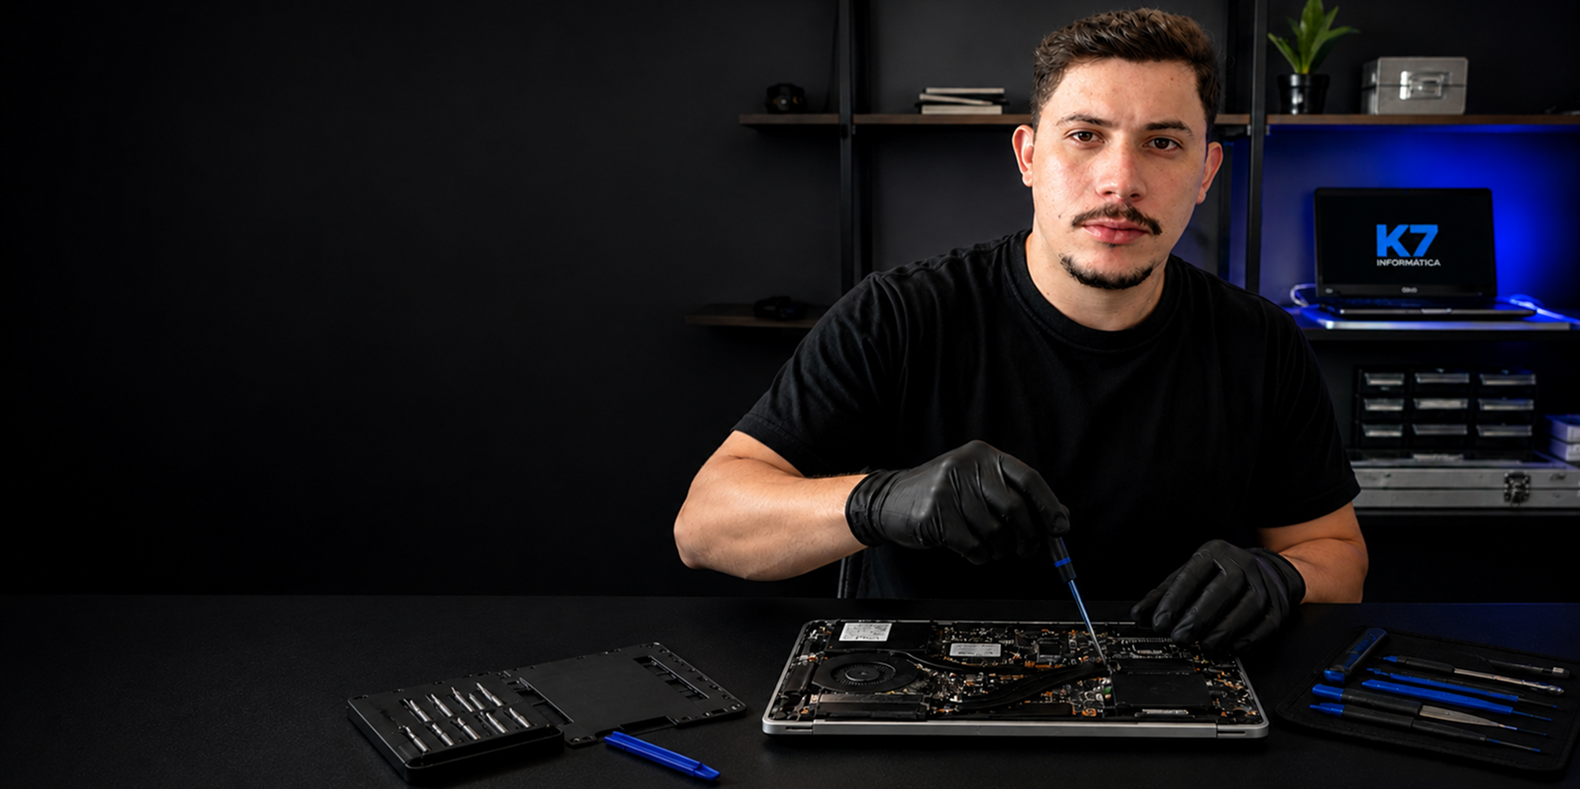
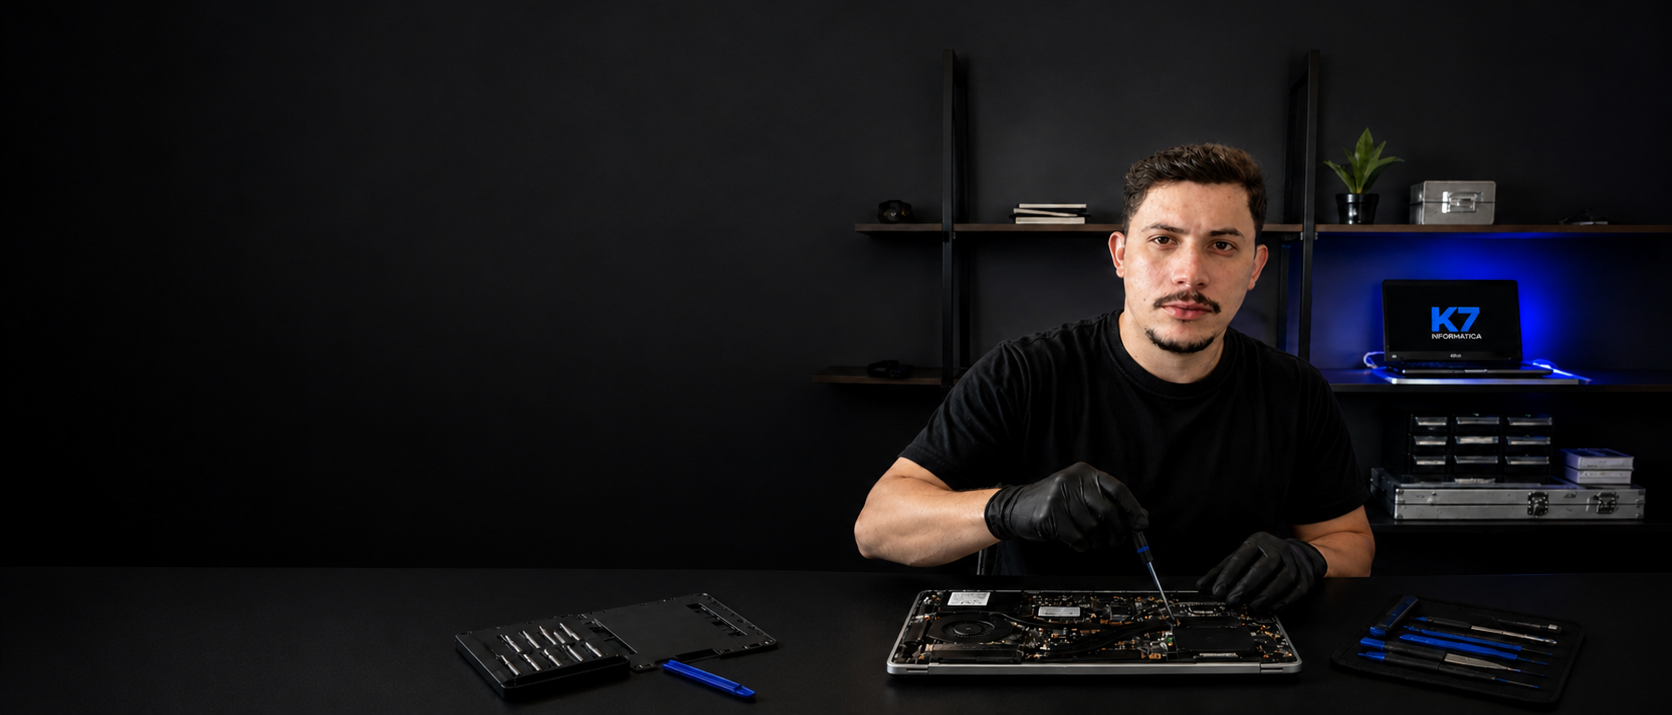
desenvolvimento da hero section, navegação do menu e comportamento de scroll do header

Changed region(s): [[0.4032, 0.0, 1.0, 0.9538], [0.2481, 0.8615, 0.4652, 1.0], [0.4032, 0.8308, 0.4342, 0.8615]]

diff --git a/front-end/assets/css/main.css b/front-end/assets/css/main.css
@@ -23,6 +23,9 @@ html {
 }
 
 body {
+  min-height: 100vh;
+  display: flex;
+  flex-direction: column;
   margin: 0;
   padding: 0;
   background-color: var(--background-color);
@@ -30,6 +33,10 @@ body {
   color: var(--default-color);
   box-sizing: border-box;
   position: relative;
+}
+
+main {
+  flex: 1;
 }
 
 h1, h2, h3, h4, h5, h6 {
@@ -138,11 +145,18 @@ header .content_nav nav {
   align-items: center;
   justify-content: space-between;
   margin: 15px 0;
-  background-color: transparent;
+  background-color: var(--background-color);
   border: 1px solid var(--surface-color);
   border-radius: 50px;
   padding: 5px 10px;
   transition: all 0.5s;
+  position: fixed;
+  left: 50%;
+  transform: translateX(-50%);
+  width: 100%;
+  top: 30px;
+  z-index: 999;
+  max-width: 1340px;
 }
 header .content_nav nav:hover {
   box-shadow: 0 0 5px var(--surface-color);
@@ -161,6 +175,9 @@ header .content_nav nav ul li a:hover {
 header .content_nav nav .menu_nav_img a {
   display: flex;
   align-items: center;
+}
+header .content_nav nav .menu_nav_img a img {
+  width: 60px;
 }
 header .content_nav nav .menu_nav_btn_contato a {
   padding: 10px 25px;
@@ -253,6 +270,7 @@ footer {
   background-color: var(--background-color);
   width: 100%;
   height: auto;
+  padding: 30px 0 0 0;
 }
 footer .footer-content {
   width: 100%;
@@ -261,7 +279,7 @@ footer .footer-content {
   flex-wrap: wrap;
   justify-content: space-between;
   gap: 15px;
-  margin-bottom: 70px;
+  margin-bottom: 15px;
 }
 footer .footer-content div {
   flex-grow: 3;
@@ -342,4 +360,49 @@ footer .fooCopy {
   background-color: var(--surface-color);
   text-align: center;
   font-weight: 400;
+  margin-bottom: 0;
+}
+
+.hiro {
+  background-image: url("../../assets/img/informatica-manutencao-notebook.png");
+  background-position: bottom;
+  background-size: cover;
+  background-repeat: no-repeat;
+  min-height: 100dvh;
+  width: 100%;
+  position: relative;
+}
+.hiro .hiro-content {
+  position: absolute;
+  max-width: 600px;
+  height: 100%;
+  display: flex;
+  align-items: center;
+}
+.hiro .hiro-content .hiro-col-content {
+  display: flex;
+  flex-direction: column;
+  gap: 30px;
+  width: 100%;
+}
+.hiro .hiro-content .hiro-col-content .destaque-hiro {
+  display: flex;
+  flex-direction: row;
+  gap: 20px;
+  width: 100%;
+}
+.hiro .hiro-content .hiro-col-content .destaque-hiro .item {
+  border: 1px solid var(--accent-color);
+  padding: 5px 15px;
+  border-radius: 15px;
+  font-size: 12px;
+}
+.hiro .hiro-content .hiro-col-content .text-hiro {
+  display: flex;
+  flex-direction: column;
+}
+.hiro .hiro-content .hiro-col-content .text-hiro ul {
+  display: flex;
+  flex-direction: column;
+  gap: 20px;
 }/*# sourceMappingURL=main.css.map */

diff --git a/front-end/assets/scss/sections/_sections.scss b/front-end/assets/scss/sections/_sections.scss
@@ -1,0 +1,50 @@
+// hiro
+.hiro{
+ background-image: url("../../assets/img/informatica-manutencao-notebook.png");
+ background-position: bottom;
+ background-size: cover;
+ background-repeat: no-repeat;
+ min-height: 100dvh;
+ width: 100%;
+ position: relative;
+
+ .hiro-content{
+  position: absolute;
+  max-width: 600px;
+  height: 100%;
+ 
+  display: flex;
+  align-items: center;
+
+  .hiro-col-content{
+   display: flex;
+   flex-direction: column;
+   gap: 30px;
+   width: 100%;
+
+   .destaque-hiro{
+    display: flex;
+    flex-direction: row;
+    gap: 20px;
+    width: 100%;
+
+    .item{
+     border:1px solid var(--accent-color);
+     padding: 5px 15px;
+     border-radius: 15px;
+     font-size: 12px;
+    }
+   }
+
+   .text-hiro{
+    display: flex;
+    flex-direction: column;
+    ul{
+     display: flex;
+     flex-direction: column;
+     gap: 20px;
+    }
+   }
+  }
+ }
+}

diff --git a/front-end/assets/scss/layout/_header.scss b/front-end/assets/scss/layout/_header.scss
@@ -31,11 +31,19 @@ header {
    justify-content: space-between;
    margin: 15px 0;
 
-   background-color: transparent;
+   background-color: var(--background-color);
    border: 1px solid var(--surface-color);
    border-radius: 50px;
    padding: 5px 10px;
    transition: all 0.5s;
+
+   position: fixed;
+   left: 50%;
+   transform: translateX(-50%);
+   width: 100%;
+   top: 30px;
+   z-index: 999;
+   max-width: 1340px;
 
    &:hover {
     box-shadow: 0 0 5px var(--surface-color);
@@ -58,6 +66,10 @@ header {
     a {
      display: flex;
      align-items: center;
+
+     img{
+      width: 60px;
+     }
     }
    }
 

diff --git a/front-end/assets/scss/layout/_footer.scss b/front-end/assets/scss/layout/_footer.scss
@@ -2,6 +2,7 @@ footer {
  background-color: var(--background-color);
  width: 100%;
  height: auto;
+ padding: 30px 0 0 0;
 
  .footer-content {
   width: 100%;
@@ -10,7 +11,7 @@ footer {
   flex-wrap: wrap;
   justify-content: space-between;
   gap: 15px;
-  margin-bottom: 70px;
+  margin-bottom: 15px;
 
   div {
    flex-grow: 3;
@@ -111,5 +112,6 @@ footer {
   background-color: var(--surface-color);
   text-align: center;
   font-weight: 400;
+  margin-bottom: 0;
  }
 }

diff --git a/front-end/assets/js/main.js b/front-end/assets/js/main.js
@@ -16,3 +16,14 @@ close.addEventListener("click", () => {
   close.classList.remove("active");
   open.classList.remove("active");
 });
+
+
+window.addEventListener("scroll", ()=>{
+ const navScroll = document.querySelector(".menu-nav");
+
+ if(window.scrollY > 50){
+  navScroll.style.top = "5px";
+ }else{
+  navScroll.style.top = "30px";
+ }
+})

diff --git a/front-end/assets/scss/layout/_base.scss b/front-end/assets/scss/layout/_base.scss
@@ -8,6 +8,10 @@ html{
 }
 
 body{
+ min-height: 100vh;
+ display: flex;
+ flex-direction: column;
+
  margin: 0;
  padding: 0;
  background-color: var(--background-color);
@@ -15,6 +19,10 @@ body{
  color: var(--default-color);
  box-sizing: border-box;
  position: relative;
+}
+
+main{
+ flex: 1;
 }
 
 h1, h2, h3, h4, h5, h6{

diff --git a/index.php b/index.php
@@ -15,7 +15,7 @@ require_once("./back-end/config/url.php");
  <!-- CSS do projeto -->
  <link rel="stylesheet" href="./front-end/assets/css/main.css">
  <!-- JS -->
-  <script src="./front-end/assets/js/main.js" defer></script>
+ <script src="./front-end/assets/js/main.js" defer></script>
  <title>K7 Informática</title>
 </head>
 
@@ -25,6 +25,34 @@ require_once("./back-end/config/url.php");
 
 
  <!-- MAIN -->
+ <main>
+  <div class="hiro" id="hiro">
+   <div class="container">
+    <div class="hiro-content">
+     <div class="hiro-col-content">
+      <div class="destaque-hiro">
+       <div class="item">Atendimento em domicílio</div>
+       <div class="item">Orçamento grátis </div>
+       <div class="item">Suporte remoto</div>
+      </div>
+      <div class="text-hiro">
+       <ul>
+        <li>> Formatação</li>
+        <li>> Instalação de sistemas</li>
+        <li>> Upgrade</li>
+        <li>> Limpeza interna</li>
+        <li>> Remoção de vírus e malwares</li>
+       </ul>
+       <p class="small" style="color: #666;">Cuidamos do seu notebook ou PC do diagnóstico ao reparo, deixando seu equipamento mais rhápido, seguro e funcionando como novo.</p>
+      </div>
+      <div class="action-hiro">
+       <a href="#">Faça um Orçamento</a>
+      </div>
+     </div>
+    </div>
+   </div>
+  </div>
+ </main>
 
 
 
